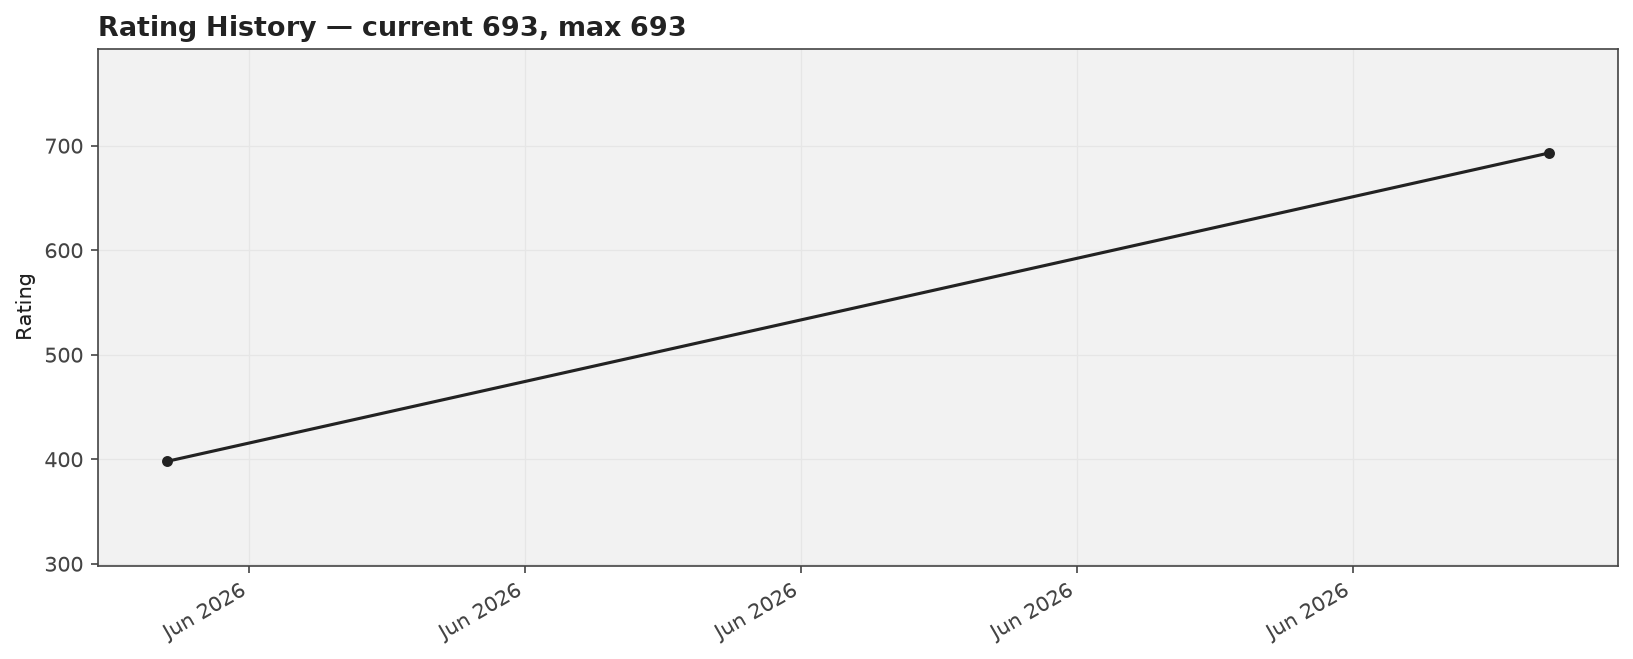
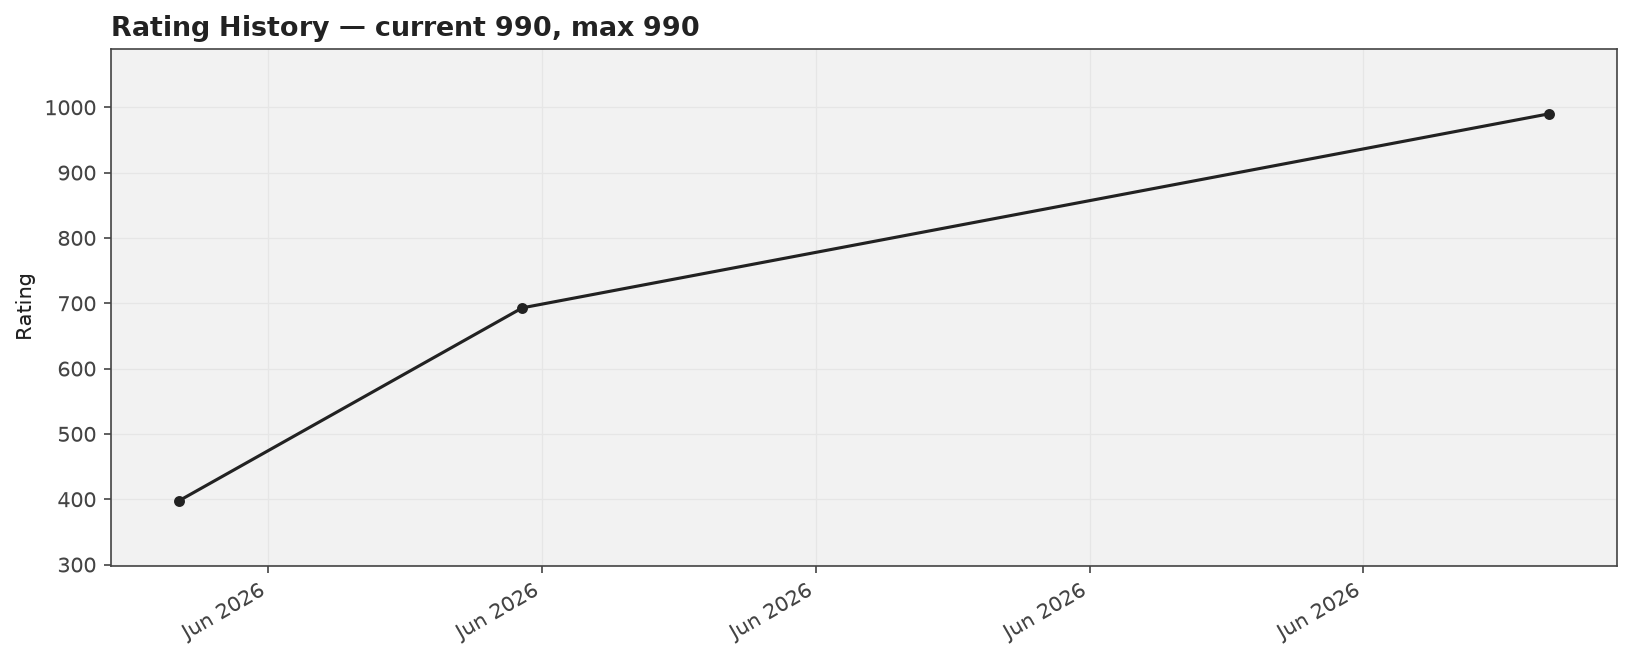
Sync: refresh analytics (rating/streak update, no new problems)

diff --git a/README.md b/README.md
@@ -5,7 +5,7 @@ Auto-generated archive of accepted Codeforces submissions for **[om_sharma_](htt
 - **Total solved:** 149
 - **With source attached:** 0 / 149
 - **Longest streak:** 15 days  |  **Current streak:** 0 days
-- **Contest rating:** 693 (max 693)
+- **Contest rating:** 990 (max 990)
 
 ## 📊 Analytics
 
